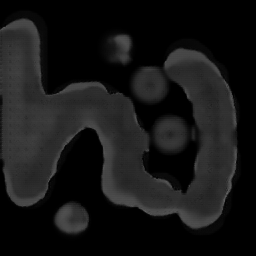
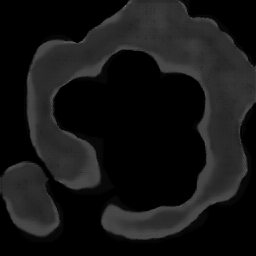
Avoid useless BVH computation on some fluid simulations

diff --git a/src/Interface/AbstractFluidSimulationInterface.cpp b/src/Interface/AbstractFluidSimulationInterface.cpp
@@ -166,33 +166,36 @@ void AbstractFluidSimulationInterface::updateBoundariesMesh()
     values.iterateParallel([&](const Vector3i& p) {
         values(p) = (values(p) > 0 ? values(p) : Vector3::isInBox(p, Vector3(-1, 3, 3), voxelGrid->getDimensions() - Vector3(-1, 3, -1)) ? -1.f : 1.f);
     });
-
-    AABBox box;
-    auto triangles = Mesh::applyMarchingCubes(values).getTriangles();
-    for (auto& tri : triangles) {
-        Vector3 center = (tri[0] + tri[1] + tri[2]) / 3.f;
-        for (auto& p : tri) {
-            p += (p - center).setMag(.1f);
-            p = p *  _simulation->dimensions / values.getDimensions();
-            box.expand(p);
-        }
+    if (this->_simulation->usesGridBoundaries) {
+        _simulation->setObstacles(values.binarize());
     }
-    _simulation->setObstacles(triangles);
-    _simulation->setObstacles(values.binarize());
-
-    auto usedTrianglesIndices = _simulation->obstacleTriangleTree.getAllStoredTrianglesIndices();
-//    std::vector<size_t> usedTrianglesIndices(triangles.size());
-//    for (size_t i = 0; i < usedTrianglesIndices.size(); i++)
-//        usedTrianglesIndices[i] = i;
-    std::vector<Vector3> allVertices;
-    allVertices.reserve(usedTrianglesIndices.size() * 3);
-    for (auto iTriangle : usedTrianglesIndices) {
-        const auto& triangle = triangles[iTriangle];
-        for (const auto& vertex : triangle) {
-            allVertices.push_back(vertex * (finalDimensions / _simulation->dimensions));
+    if (this->_simulation->usesTrianglesBoundaries) {
+        AABBox box;
+        auto triangles = Mesh::applyMarchingCubes(values).getTriangles();
+        for (auto& tri : triangles) {
+            Vector3 center = (tri[0] + tri[1] + tri[2]) / 3.f;
+            for (auto& p : tri) {
+                p += (p - center).setMag(.1f);
+                p = p *  _simulation->dimensions / values.getDimensions();
+                box.expand(p);
+            }
         }
+        _simulation->setObstacles(triangles);
+
+        auto usedTrianglesIndices = _simulation->obstacleTriangleTree.getAllStoredTrianglesIndices();
+    //    std::vector<size_t> usedTrianglesIndices(triangles.size());
+    //    for (size_t i = 0; i < usedTrianglesIndices.size(); i++)
+    //        usedTrianglesIndices[i] = i;
+        std::vector<Vector3> allVertices;
+        allVertices.reserve(usedTrianglesIndices.size() * 3);
+        for (auto iTriangle : usedTrianglesIndices) {
+            const auto& triangle = triangles[iTriangle];
+            for (const auto& vertex : triangle) {
+                allVertices.push_back(vertex * (finalDimensions / _simulation->dimensions));
+            }
+        }
+        boundariesMesh.fromArray(allVertices);
     }
-    boundariesMesh.fromArray(allVertices);
 }
 
 void AbstractFluidSimulationInterface::computeSimulation(int nbSteps)

diff --git a/src/FluidSimulation/FluidSimulation.cpp b/src/FluidSimulation/FluidSimulation.cpp
@@ -44,6 +44,7 @@ void FluidSimulation::setVelocity(int x, int y, int z, const Vector3 &amount)
 }
 
 void FluidSimulation::setObstacles(const std::vector<std::vector<Vector3> > &triangles) {
+    if (!this->usesTrianglesBoundaries) return;
     this->triangles = triangles;
 //    obstacleTriangleTree = BVHTree(); //(triangles);
     obstacleTriangleTree.build(Triangle::vectorsToTriangles(triangles));
@@ -65,16 +66,19 @@ void FluidSimulation::setObstacles(const std::vector<std::vector<Vector3> > &tri
 }
 
 void FluidSimulation::setObstacles(const GridF &obstacle) {
+    if (!this->usesGridBoundaries) return;
     this->obstacleGrid = obstacle.resize(dimensions).binarize();
     this->obstacleGradient = obstacleGrid.gradient().normalized();
 }
 
 void FluidSimulation::addObstacles(const std::vector<std::vector<Vector3> > &triangles)
 {
+    if (!this->usesTrianglesBoundaries) return;
     this->setObstacles(vectorUnion(triangles, this->triangles));
 }
 
 void FluidSimulation::addObstacles(const GridF& obstacle)
 {
+    if (!this->usesGridBoundaries) return;
     this->setObstacles(this->obstacleGrid + obstacle);
 }

diff --git a/src/FluidSimulation/StableFluidsFluidSimulation.cpp b/src/FluidSimulation/StableFluidsFluidSimulation.cpp
@@ -411,6 +411,8 @@ StableFluidsSimulation::StableFluidsSimulation()
 StableFluidsSimulation::StableFluidsSimulation(int sizeX, int sizeY, int sizeZ, float dt, float diffusionAmount, float viscosity, int iterations)
     : FluidSimulation(sizeX, sizeY, sizeZ), sizeX(sizeX), sizeY(sizeY), sizeZ(sizeZ), dt(dt), diffusionAmount(diffusionAmount), viscosity(viscosity), iterations(iterations)
 {
+    this->usesTrianglesBoundaries = false;
+    this->usesGridBoundaries = true;
 //    obstacles = GridF(dimensions);
     density_old = GridF(dimensions);
     density = GridF(dimensions);

diff --git a/src/FluidSimulation/FLIPSimulation.cpp b/src/FluidSimulation/FLIPSimulation.cpp
@@ -9,6 +9,8 @@ FLIPSimulation::FLIPSimulation()
 FLIPSimulation::FLIPSimulation(float density, float width, float depth, float height, float spacing, float particleRadius, float maxParticles, float dt)
     : FluidSimulation(width, depth, height)
 {
+    this->usesTrianglesBoundaries = true;
+    this->usesGridBoundaries = false;
     init(density, width, depth, height, spacing, particleRadius, maxParticles, dt);
 }
 

diff --git a/src/FluidSimulation/LBMFluidSimulation.cpp b/src/FluidSimulation/LBMFluidSimulation.cpp
@@ -3,6 +3,8 @@
 LBMFluidSimulation::LBMFluidSimulation(bool uses3D)
     : FluidSimulation(30, 30, (uses3D ? 50 : 1)), uses3D(uses3D)
 {
+    this->usesTrianglesBoundaries = false;
+    this->usesGridBoundaries = true;
     c = (uses3D ? c3D : c2D);
 //    GridF heights(dimensions);
     f = Matrix3<GridF>(dimensions, GridF(c.size(), 1));

diff --git a/src/FluidSimulation/WarpedFluidSimulation.cpp b/src/FluidSimulation/WarpedFluidSimulation.cpp
@@ -7,6 +7,8 @@ WarpedFluidSimulation::WarpedFluidSimulation()
 WarpedFluidSimulation::WarpedFluidSimulation(int x, int y, int z)
     : FluidSimulation(x, y, 1)
 {
+    this->usesTrianglesBoundaries = false;
+    this->usesGridBoundaries = true;
     this->recomputeVelocities();
 }
 

diff --git a/src/FluidSimulation/SPHSimulation.cpp b/src/FluidSimulation/SPHSimulation.cpp
@@ -2,6 +2,9 @@
 
 SPHSimulation::SPHSimulation()
 {
+    this->usesTrianglesBoundaries = true;
+    this->usesGridBoundaries = false;
+
     this->dimensions = Vector3(100, 100, 30);
     this->nbParticles = 50000;
     this->dt = 0.01f;

diff --git a/src/FluidSimulation/FluidSimulation.h b/src/FluidSimulation/FluidSimulation.h
@@ -51,6 +51,9 @@ public:
     int currentStep = 0;
     int _cachedStep = -1;
     GridV3 _cachedVelocity;
+
+    bool usesTrianglesBoundaries = true;
+    bool usesGridBoundaries = true;
 };
 
 #endif // FLUIDSIMULATION_H
